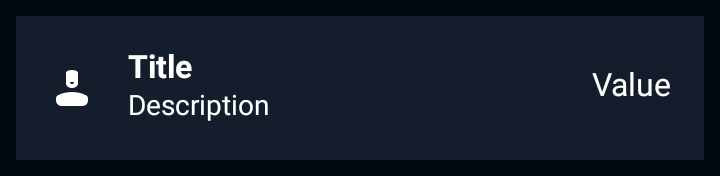
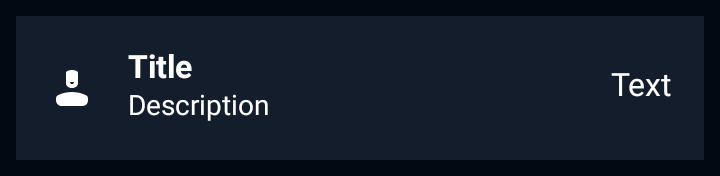
Change Text slot display text from 'Value' to 'Text'
Updated the withText test to display "Text" instead of "Value" in the
Text slot for better clarity and consistency with the slot type name.

Regenerated test snapshots across all variants (default, dm, rtl).

🤖 Generated with [Claude Code](https://claude.com/claude-code)

Changed region(s): [[0.825, 0.3977, 0.9472, 0.5682]]

diff --git a/app/src/test/java/net/skyscanner/backpack/compose/cellitem/BpkCellItemTest.kt b/app/src/test/java/net/skyscanner/backpack/compose/cellitem/BpkCellItemTest.kt
@@ -80,7 +80,7 @@ class BpkCellItemTest : BpkSnapshotTest() {
             icon = BpkIcon.Account,
             title = "Title",
             body = "Description",
-            slot = BpkCellItemSlot.Text("Value"),
+            slot = BpkCellItemSlot.Text("Text"),
         )
     }
 
